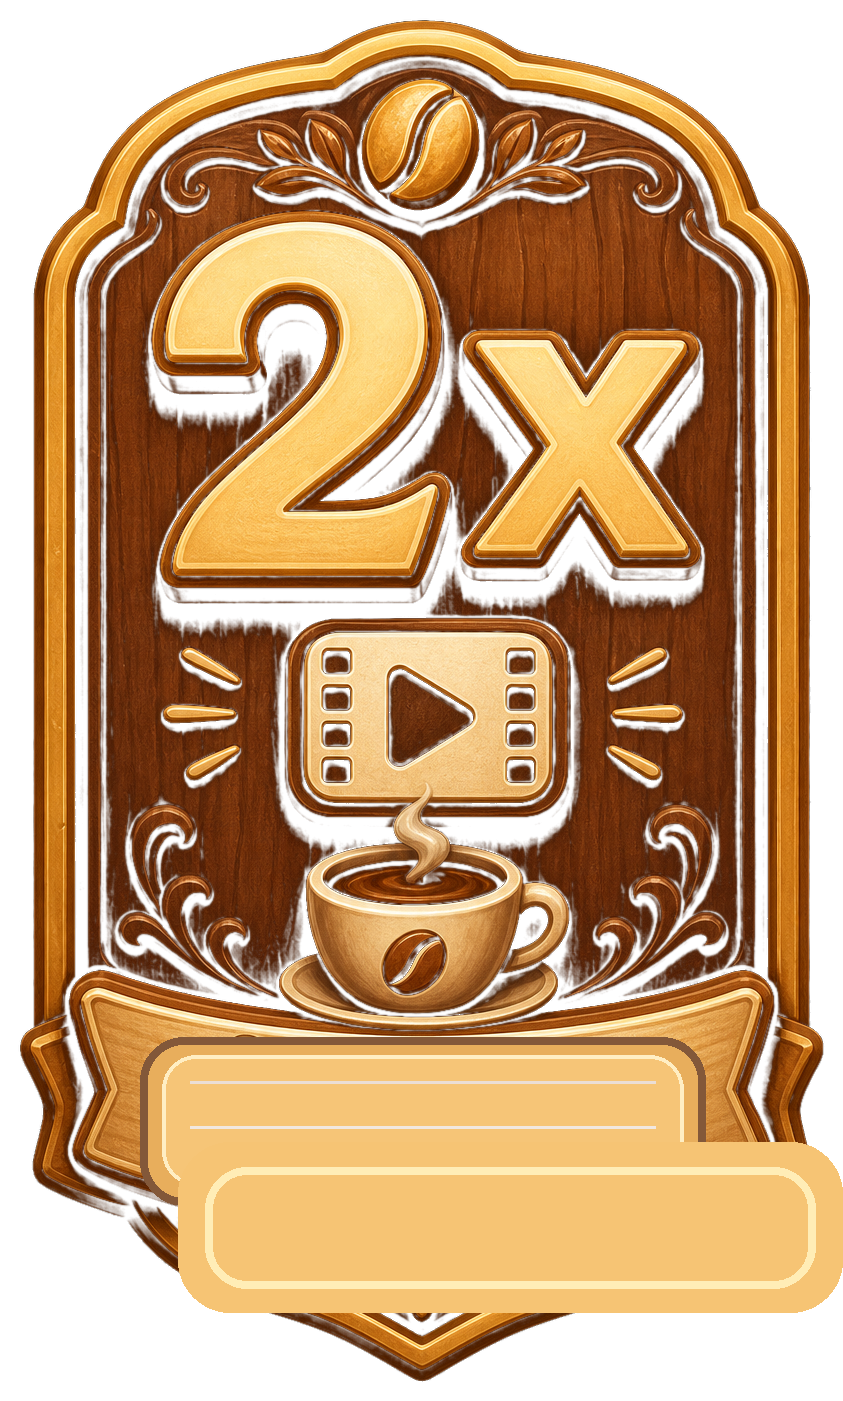
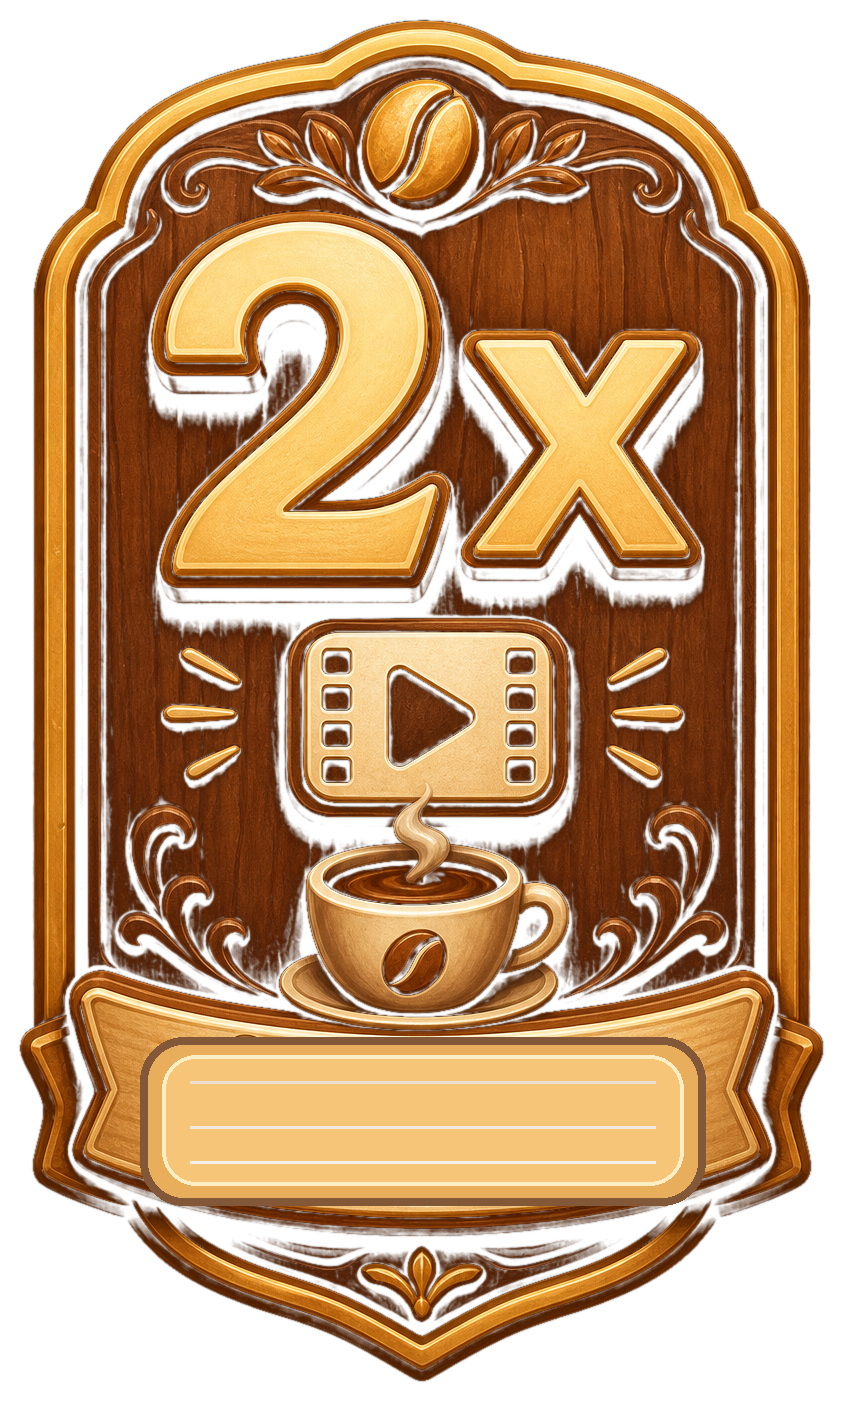
Reset ad boost button placement

Changed region(s): [[0.1851, 0.798, 1.0, 0.9515]]

diff --git a/Assets/GameManager.cs b/Assets/GameManager.cs
@@ -1681,7 +1681,7 @@ public class GameManager : MonoBehaviour
         CreateCustomerButton(gameFrame);
 
         CreateButton(gameFrame, "SellCoffeeButton", "SAT", new Vector2(0, -475), new Vector2(150, 68), SellCoffee, new Color(0.43f, 0.24f, 0.14f), 28);
-        adBoostButtonText = CreateButton(gameFrame, "AdBoostButton", "", new Vector2(850, 214), new Vector2(144, 216), WatchAdForBoost, new Color(1f, 1f, 1f, 0.01f), 20);
+        adBoostButtonText = CreateButton(gameFrame, "AdBoostButton", "", new Vector2(850, 250), new Vector2(128, 148), WatchAdForBoost, new Color(1f, 1f, 1f, 0.01f), 20);
         ConfigureAdBoostButton(adBoostButtonText);
         CreateButton(gameFrame, "OpenTestPanelButton", "T", new Vector2(850, -415), new Vector2(82, 74), OpenTestPanel, new Color(0.20f, 0.20f, 0.20f), 26);
         TMP_Text tasksButtonText = CreateButton(gameFrame, "TasksButton", "", new Vector2(-890, 310), new Vector2(122, 116), OpenTaskPanel, Color.white, 24);
@@ -2800,14 +2800,14 @@ public class GameManager : MonoBehaviour
         }
 
         RectTransform textRect = buttonText.rectTransform;
-        textRect.anchoredPosition = new Vector2(0f, -78f);
-        textRect.sizeDelta = new Vector2(110f, 30f);
+        textRect.anchoredPosition = new Vector2(0f, -54f);
+        textRect.sizeDelta = new Vector2(112f, 30f);
         buttonText.color = new Color(0.27f, 0.12f, 0.035f, 1f);
         buttonText.fontStyle = FontStyles.Bold;
         buttonText.alignment = TextAlignmentOptions.Center;
         buttonText.enableAutoSizing = true;
         buttonText.fontSizeMin = 13;
-        buttonText.fontSizeMax = 20;
+        buttonText.fontSizeMax = 21;
         buttonText.outlineColor = new Color(1f, 0.83f, 0.44f, 0.55f);
         buttonText.outlineWidth = 0.08f;
         buttonText.raycastTarget = false;
